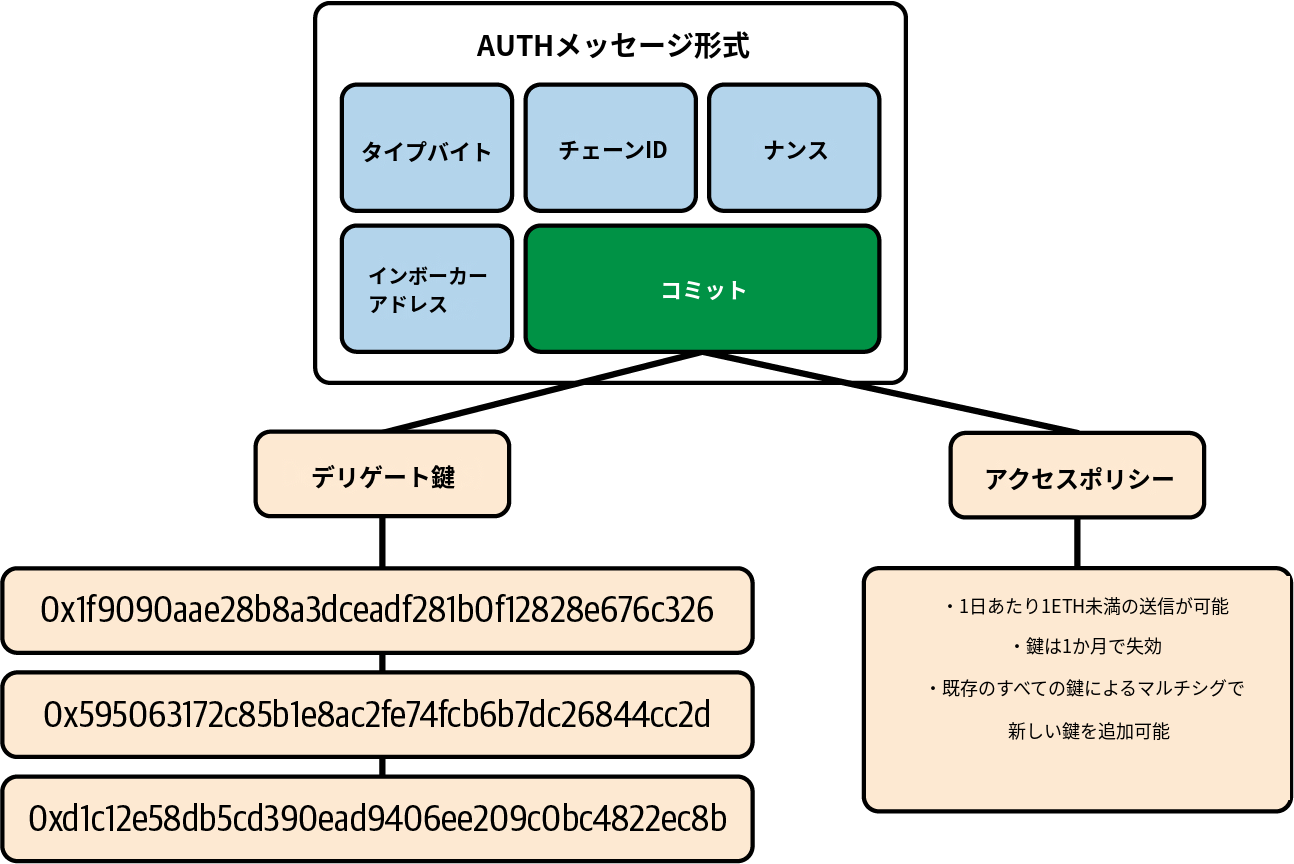
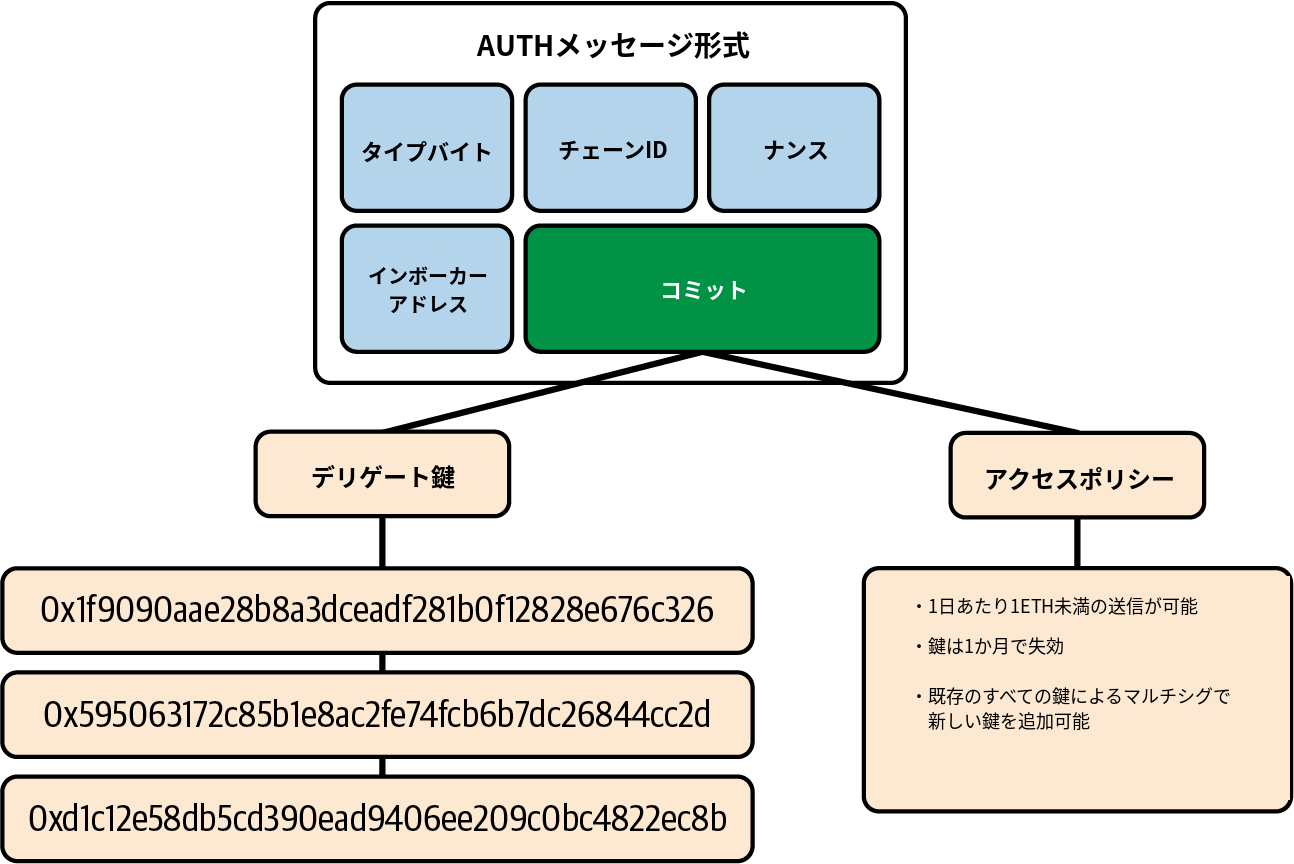
feat(translate-image)+fix(ch5-images): left-align アクセスポリシー bullets in 0509
Add a text_align option (center/left/right) to extra_text_regions so
multi-line lists can use a real left anchor with consistent indent
instead of stacking manual text_offset_x kludges per line. Use it on
the three アクセスポリシー bullets in maet_0509.json and merge the wrapped
3rd bullet into one entry with a full-width-space indent for the
continuation line, so the box reads as a proper bulleted list aligned
at one x position.

Changed region(s): [[0.711, 0.6875, 0.9583, 0.875], [0.2782, 0.3438, 0.3709, 0.375]]

diff --git a/scripts/translate_image.py b/scripts/translate_image.py
@@ -264,7 +264,13 @@ def draw_translations(inpainted_bgr: np.ndarray, regions: list[dict]) -> Image.I
 
     for region in regions:
         box = region["box"]
-        cx = (box[0] + box[2]) / 2 + region.get("text_offset_x", 0)
+        align = region.get("text_align", "center")
+        if align == "left":
+            cx = box[0] + region.get("text_offset_x", 0)
+        elif align == "right":
+            cx = box[2] + region.get("text_offset_x", 0)
+        else:
+            cx = (box[0] + box[2]) / 2 + region.get("text_offset_x", 0)
         cy = (box[1] + box[3]) / 2 + region.get("text_offset_y", 0)
         box_w = box[2] - box[0]
         box_h = box[3] - box[1]
@@ -303,7 +309,13 @@ def draw_translations(inpainted_bgr: np.ndarray, regions: list[dict]) -> Image.I
             fill = (int(c[0:2], 16), int(c[2:4], 16), int(c[4:6], 16))
         else:
             fill = tuple(color)
-        draw.text((cx, cy), region["translation"], font=font, fill=fill, anchor="mm")
+        if align == "left":
+            anchor, multi = "lm", "left"
+        elif align == "right":
+            anchor, multi = "rm", "right"
+        else:
+            anchor, multi = "mm", "center"
+        draw.text((cx, cy), region["translation"], font=font, fill=fill, anchor=anchor, align=multi)
 
     return img_pil
 
@@ -379,6 +391,7 @@ def translate_image(image_path: str, translation_map: dict, preview: bool = Fals
             "text_offset_x": matched.get("text_offset_x", 0),
             "text_offset_y": matched.get("text_offset_y", 0),
             "color": matched.get("color"),
+            "text_align": matched.get("text_align", "center"),
         })
         print(f"       '{det['text']}' → '{matched['ja']}'")
 
@@ -397,6 +410,7 @@ def translate_image(image_path: str, translation_map: dict, preview: bool = Fals
         text_offset_x = next((v.get("text_offset_x") for _, v in items if v.get("ja")), 0) or 0
         text_offset_y = next((v.get("text_offset_y") for _, v in items if v.get("ja")), 0) or 0
         color = next((v.get("color") for _, v in items if v.get("ja")), None)
+        text_align = next((v.get("text_align") for _, v in items if v.get("ja")), "center")
         if ja:
             regions.append({
                 "box": merged_box,
@@ -408,6 +422,7 @@ def translate_image(image_path: str, translation_map: dict, preview: bool = Fals
                 "text_offset_x": text_offset_x,
                 "text_offset_y": text_offset_y,
                 "color": color,
+                "text_align": text_align,
             })
             print(f"       (merged '{gname}') → '{ja}'")
 
@@ -425,6 +440,9 @@ def translate_image(image_path: str, translation_map: dict, preview: bool = Fals
             "font_size": er.get("font_size"),
             "color": er.get("color"),
             "no_mask": er.get("no_mask", False),
+            "text_align": er.get("text_align", "center"),
+            "text_offset_x": er.get("text_offset_x", 0),
+            "text_offset_y": er.get("text_offset_y", 0),
         })
         print(f"       (extra) → '{er['ja']}'")
 
